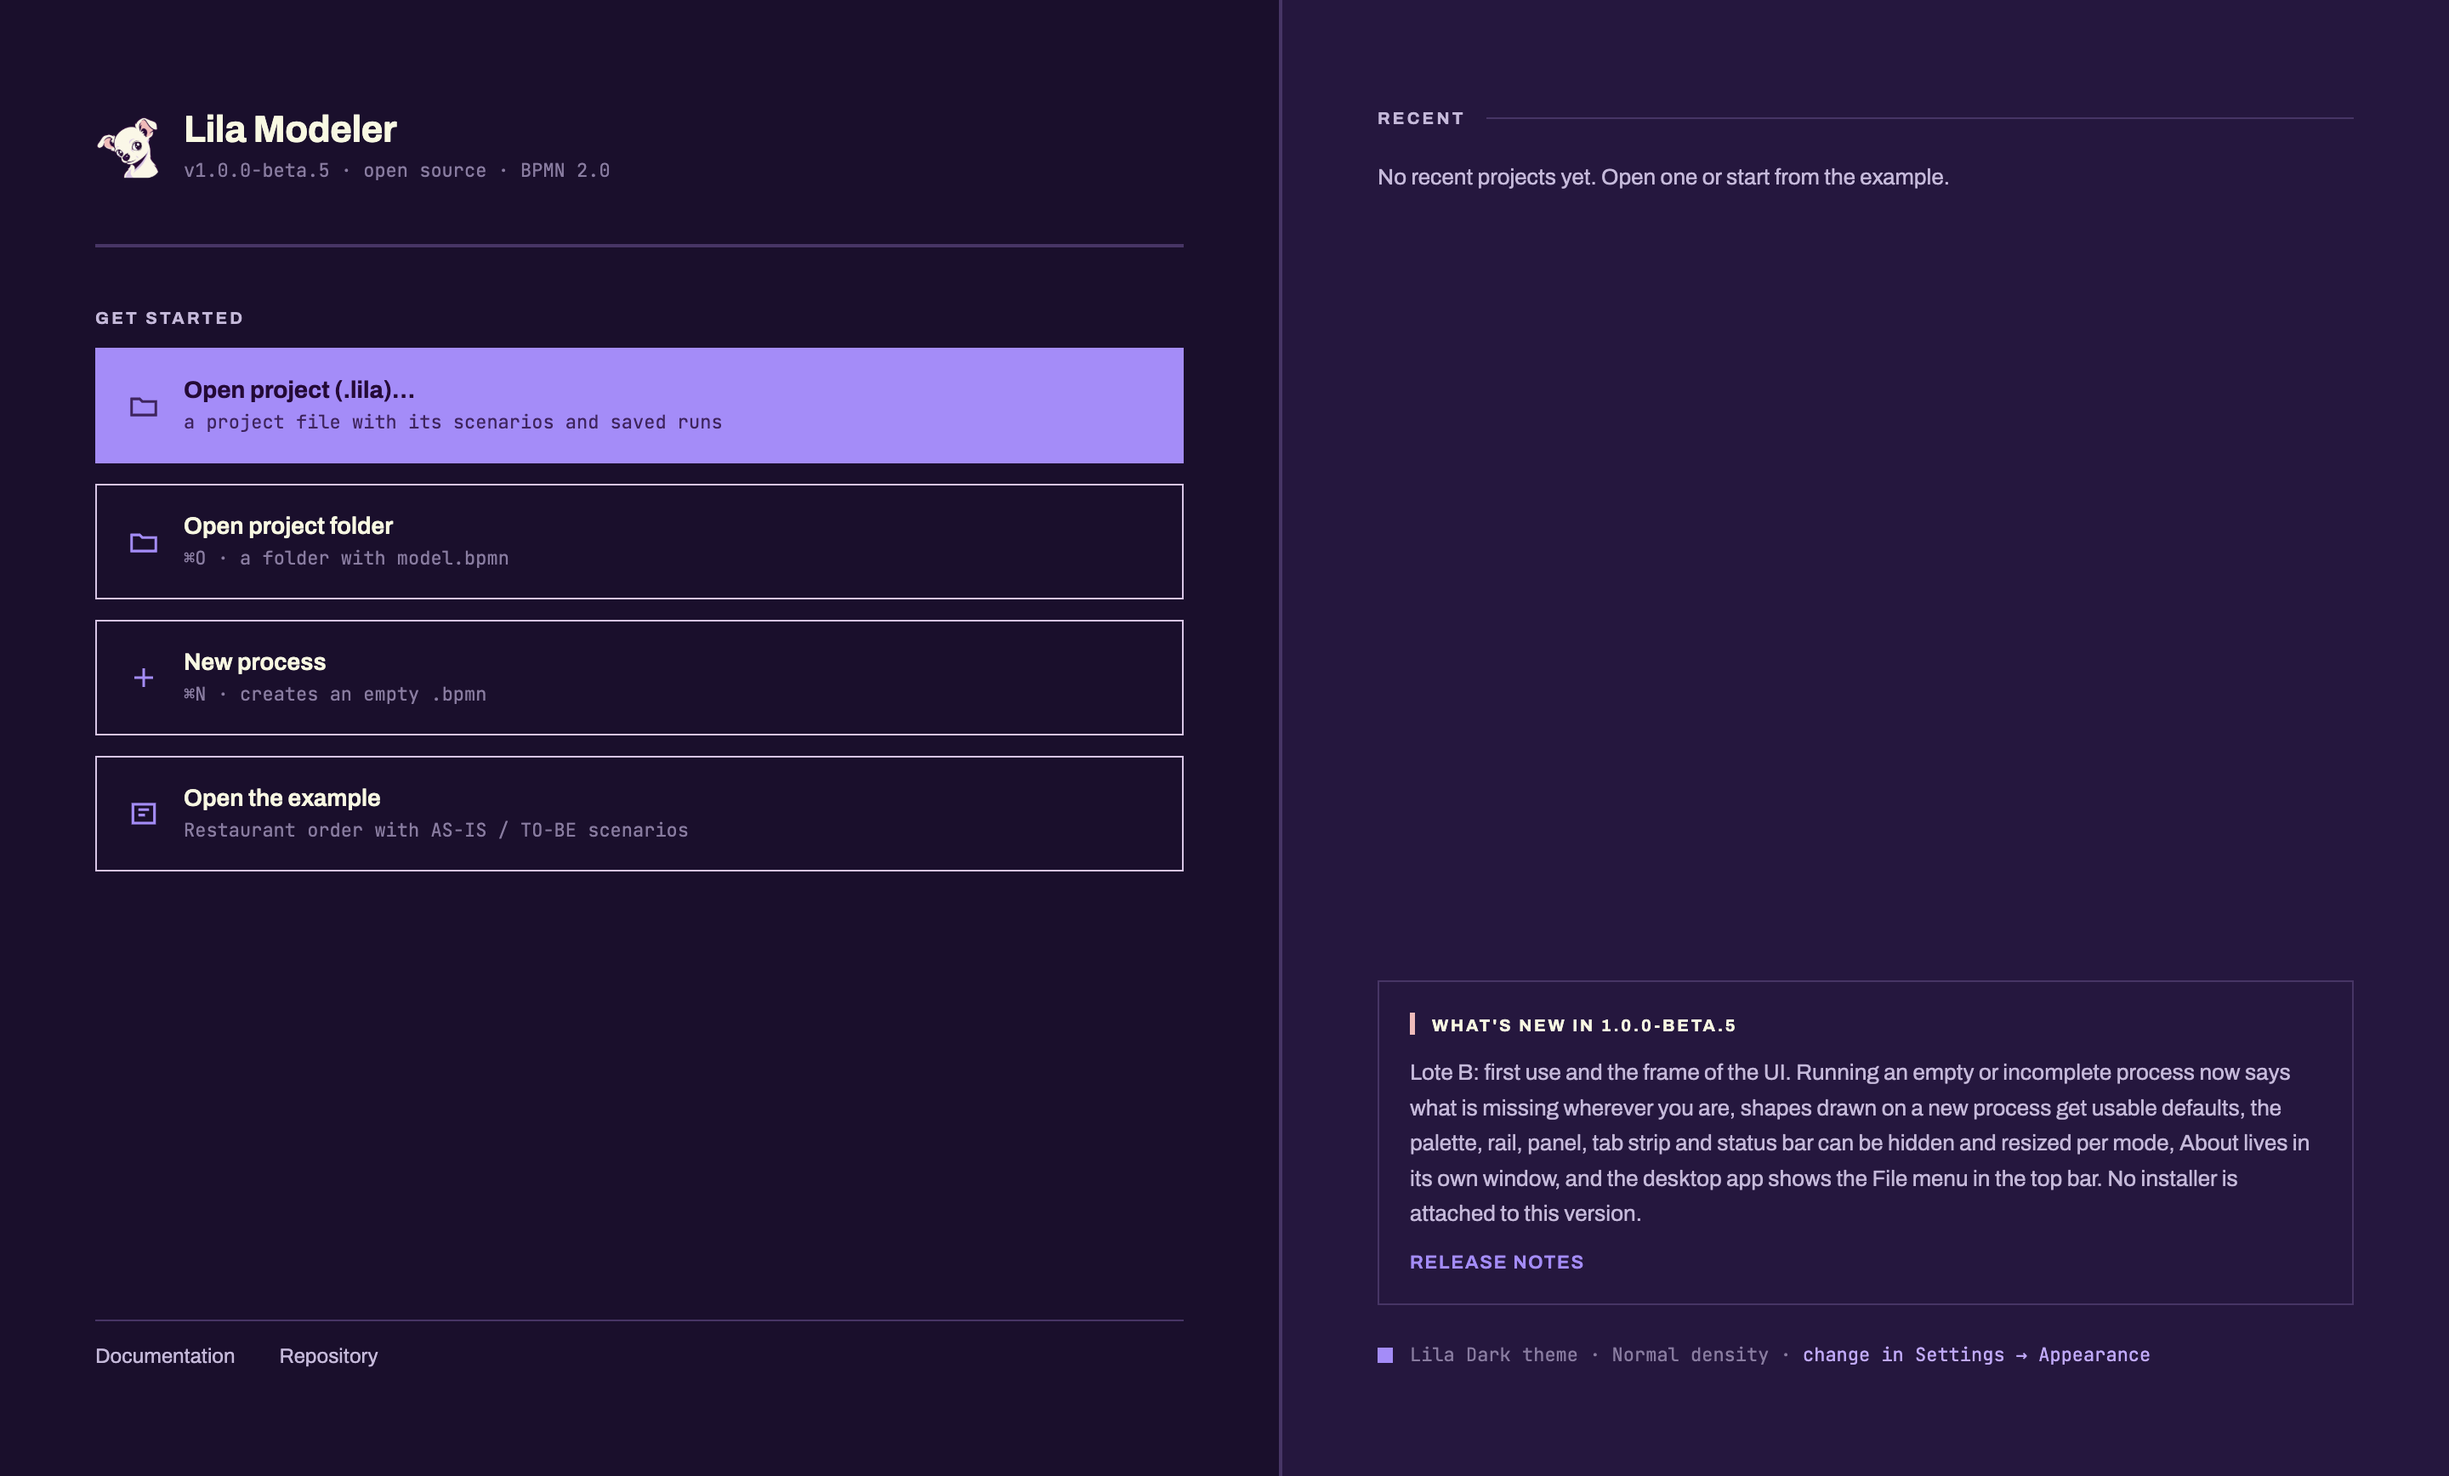
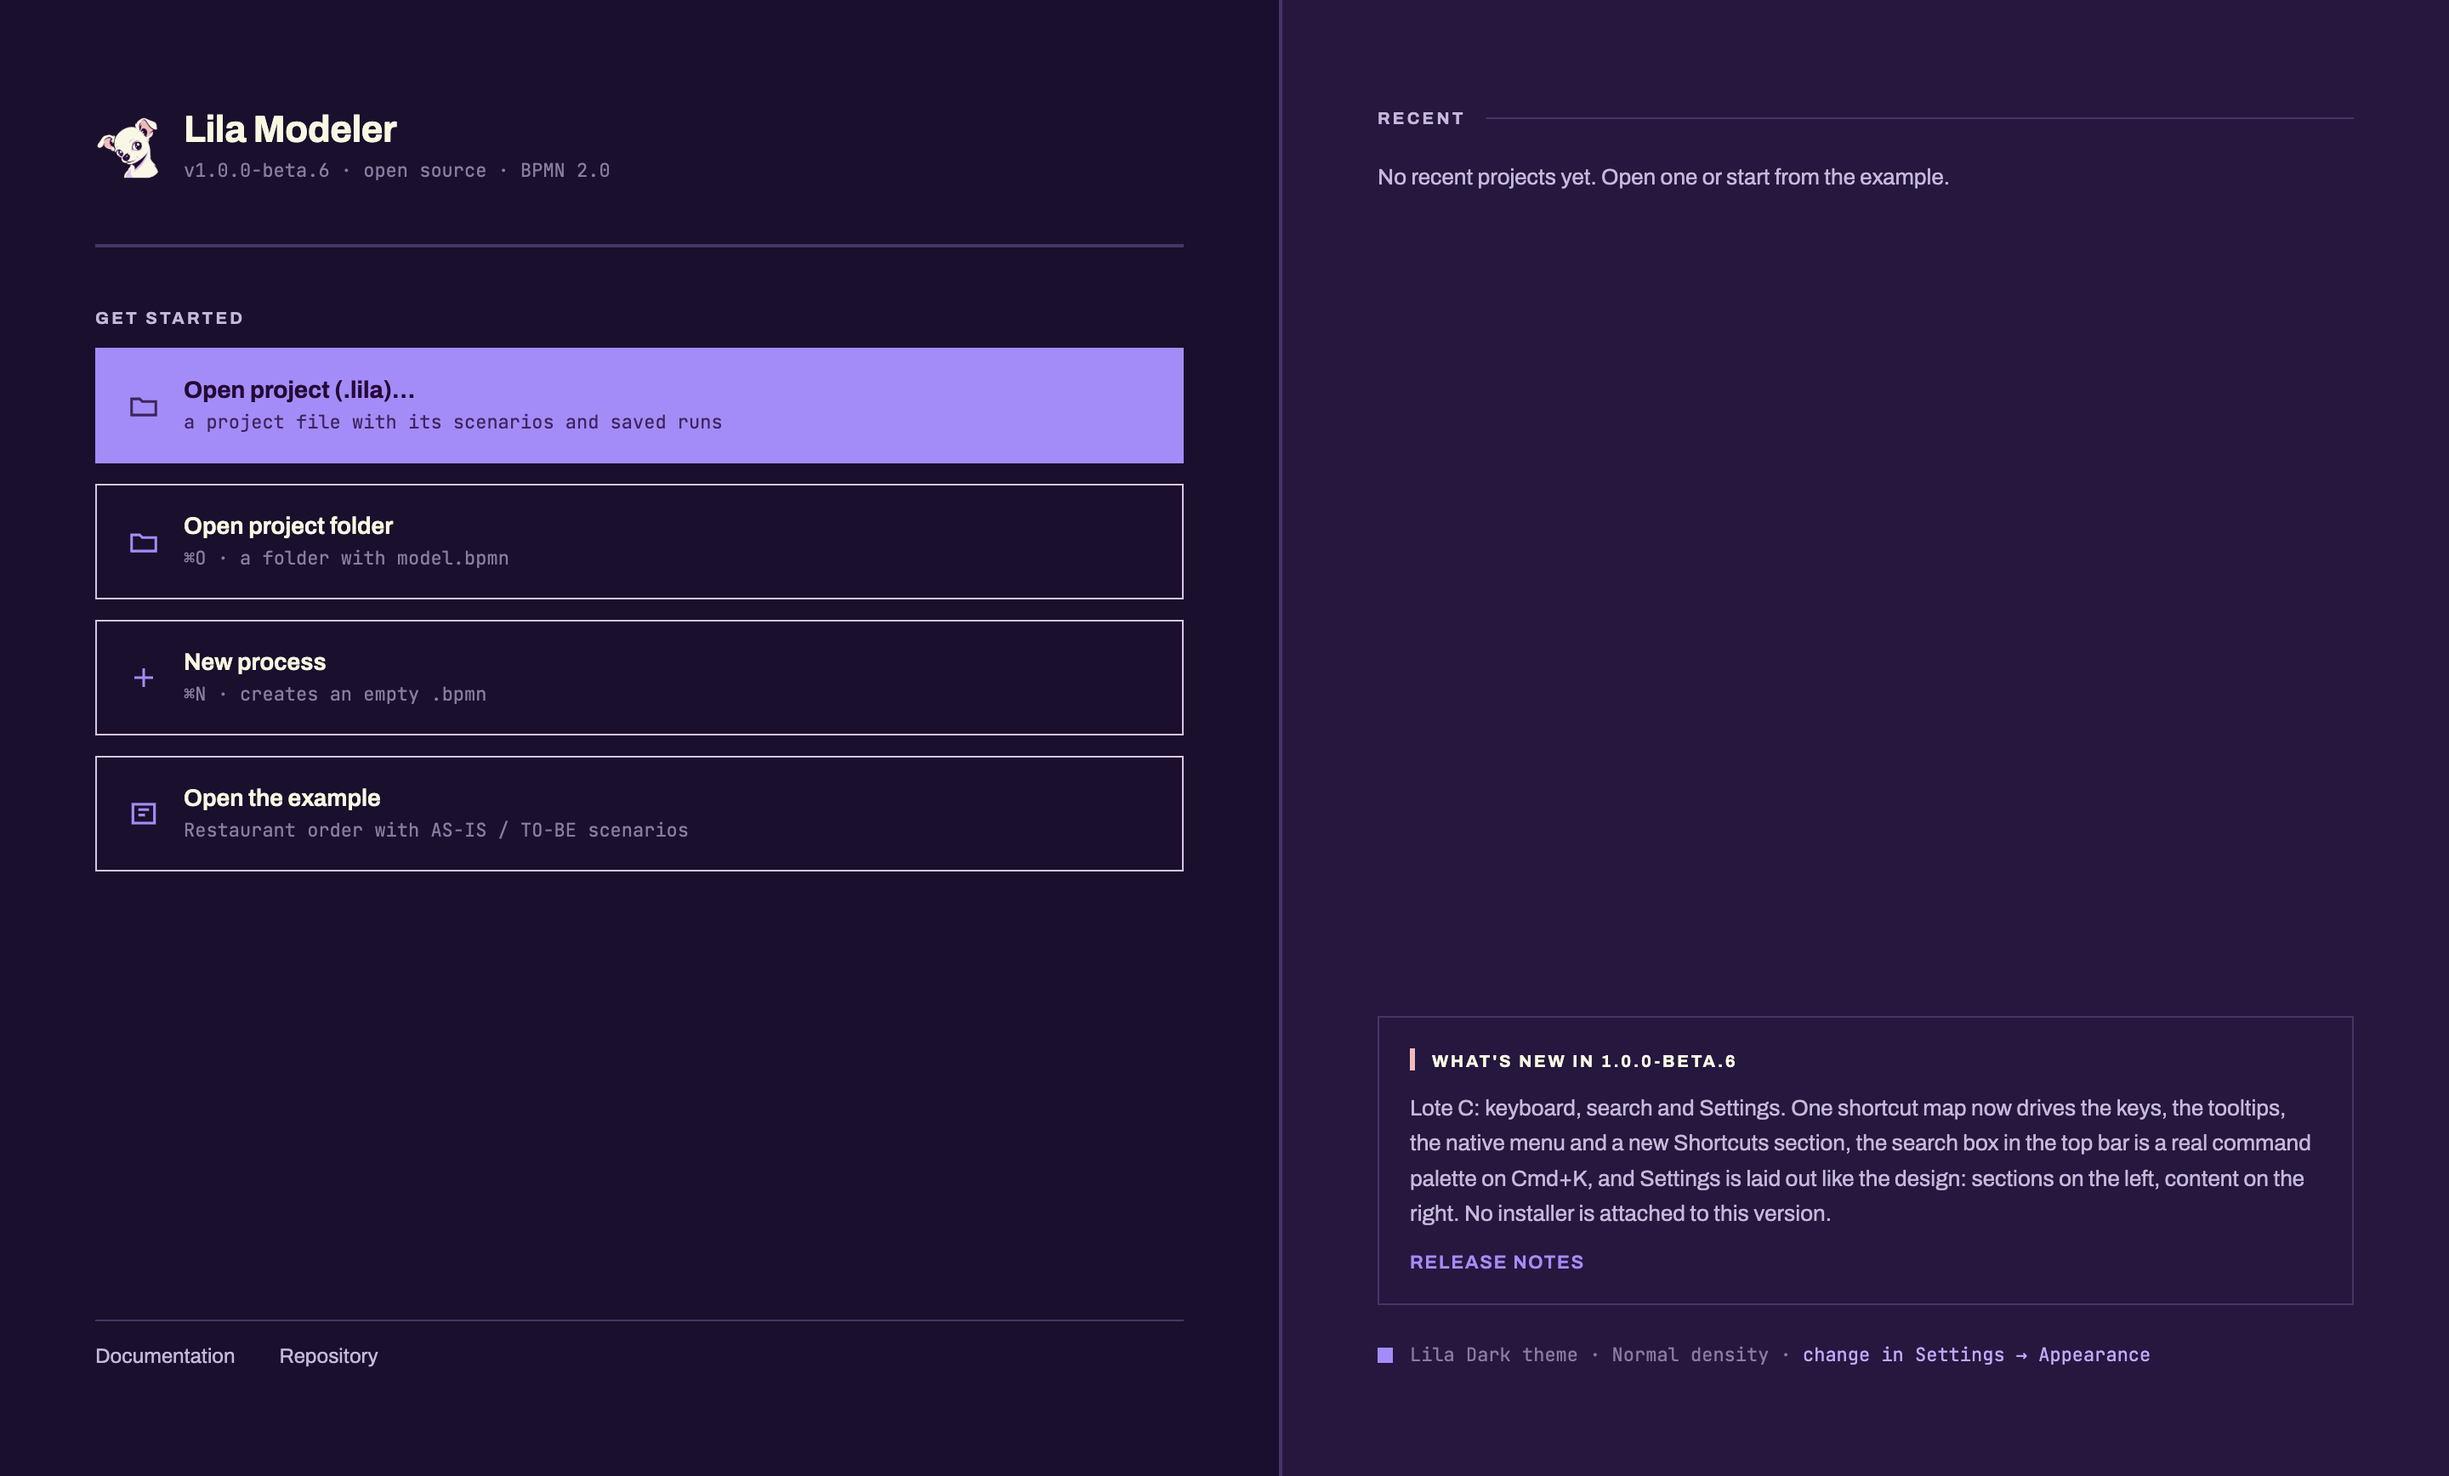
docs(design): regenerate the English gallery and the welcome capture for 1.0.0-beta.6
The Settings dialog has sections since #407, so `appearance.png` now shows the Appearance
section (the capture script opens that tab and finds the theme select by its field, not by
position). `welcome.png` is the beta.6 welcome from the installed app with a fresh profile.

Changed region(s): [[0.5625, 0.6843, 0.9375, 0.8399]]

diff --git a/docs/design/en/README.md b/docs/design/en/README.md
@@ -1,6 +1,6 @@
 # English application screenshots
 
-Real Chromium browser captures, generated on 2026-09-23 from the built application at
+Real Chromium browser captures, generated on 2026-09-24 from the built application at
 `/lila-modeler/app/` by `tools/capture-screenshots.mjs`. English is selected explicitly, with the
 default Lila Light theme (#404), normal density, America/Mexico_City timezone and device scale factor 1.
 Each web state has a 1440×900 PNG and a 1920×1080 PNG. The [manifest](capture-manifest.json)
@@ -78,7 +78,7 @@ Before capture, the script verifies the browser round-trip through visible contr
 6. Clear only the disposable browser context's storage and capture the original maintained
    example. Run both scenarios again; explicitly save/reload before capturing Compare.
 
-Validation on 2026-09-23: all round-trip assertions passed, with no browser page errors.
+Validation on 2026-09-24: all round-trip assertions passed, with no browser page errors.
 The 24 web PNGs were checked for format/dimensions and visually reviewed for English interface,
 Lila Light (Lila Dark for the two theme captures), the expected calendar, genuine overlay, numerical results and comparison data; the
 desktop welcome was reviewed for neutral recents only.
